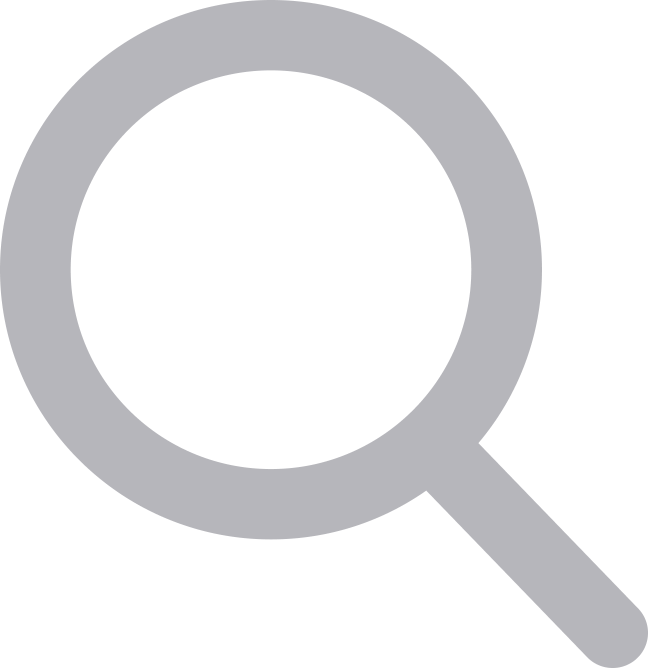
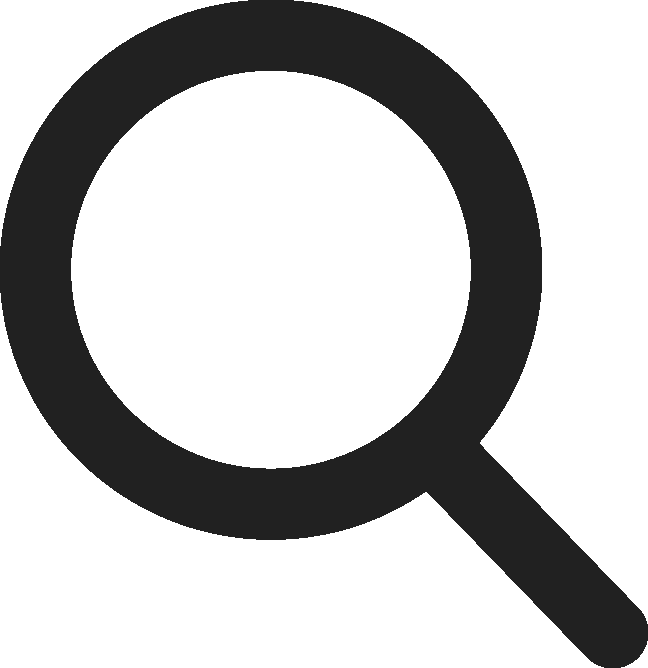
Se agrego iconos faltantes

Changed region(s): [[0.0, 0.0, 1.0, 1.0]]

diff --git a/tumi/templates/dashboard.html b/tumi/templates/dashboard.html
@@ -83,10 +83,13 @@
                     </div>
                     <div class="dashboard_view_inspeccion_opcion_row_1">
                         <div class="dashboard_view_inspeccion">Inspección 1,2,3,4-22</div>
-                        <div class="dashboard_view_fechas">02 Ene 2022 - 05 Dic 2022</div>
+                        <div class="dashboard_view_fechas">
+                            <img class="dashboard_view_fechas_img" src="{% static 'img/calendar.png' %}" alt="">
+                            <p class="dashboard_view_fechas_text">02 Ene 2022 - 05 Dic 2022</p>
+                        </div>
                         <img class="dashboard_view_icon" src="{% static 'img/lupa.png' %}" alt="">
-                        <img class="dashboard_view_icon" src="{% static 'img/lupa.png' %}" alt="">
-                        <img class="dashboard_view_icon" src="{% static 'img/lupa.png' %}" alt="">
+                        <img class="dashboard_view_icon" src="{% static 'img/mensaje.png' %}" alt="">
+                        <img class="dashboard_view_icon" src="{% static 'img/campana.png' %}" alt="">
                         <img class="dashboard_view_photo" src="{% static 'img/users/Mariel.png' %}" alt="">
                     </div>
                 </div>
@@ -119,19 +122,19 @@
                                     </div>
                                 </a>
                                 <button class="dashboard_historico_card" data-bs-toggle="modal" data-bs-target="#videoModal{{ inspeccion.id }}">
-                                    <img class="dashboard_historico_card_icon" src="{% static 'img/informen.png' %}" alt="icono">
+                                    <img class="dashboard_historico_card_icon" src="{% static 'img/video.png' %}" alt="icono">
                                     <div class="dashboard_historico_card_text"> 
                                         Video
                                     </div>
                                 </button>
                                 <a style="text-decoration: none;" href="{% url 'tumi:descargarLas' inspeccion.id %}" class="dashboard_historico_card">
-                                    <img class="dashboard_historico_card_icon" src="{% static 'img/informen.png' %}" alt="icono">
+                                    <img class="dashboard_historico_card_icon" src="{% static 'img/inspeccion.png' %}" alt="icono">
                                     <div class="dashboard_historico_card_text"> 
                                         Reconstrucción
                                     </div>
                                 </a>
                                 <a style="text-decoration: none;" href="{% url 'tumi:descargarDxf' inspeccion.id %}" class="dashboard_historico_card">
-                                    <img class="dashboard_historico_card_icon" src="{% static 'img/informen.png' %}" alt="icono">
+                                    <img class="dashboard_historico_card_icon" src="{% static 'img/puntos.png' %}" alt="icono">
                                     <div class="dashboard_historico_card_text"> 
                                         Mapa de puntos
                                     </div>

diff --git a/tumi/static/style/dashboard.css b/tumi/static/style/dashboard.css
@@ -139,7 +139,7 @@ time, mark, audio, video {
     align-items: center;
 }
 .dashboard_view_presentacion_contenedor_1{
-    width: 47%;
+    width: 44%;
 }
 .dashboard_view_presentacion_texto_1{
     font-family: 'Montserrat', sans-serif;
@@ -171,15 +171,26 @@ time, mark, audio, video {
     font-size: 14px;
 }
 .dashboard_view_fechas{
+    display: inline-flex;
     padding: 8px 14px;
-    margin: 0 36px 0 18px;
+    margin: 0 26px 0 10px;
     background-color: #FFFFFF;
     border-radius: 10px;
     border: 1px solid 
     rgba(0, 0, 0, 0.1);
+    white-space: nowrap;
+    
+}
+.dashboard_view_fechas_text{
+    margin: 0 0 0 8px;
+    white-space: nowrap;
     font-family: 'Montserrat', sans-serif;
     font-weight: 500;
     font-size: 14px;
+}
+.dashboard_view_fechas_img{
+    width: 16px;
+    height: auto;
 }
 .dashboard_view_icon{
     width: 26px;
@@ -319,7 +330,8 @@ time, mark, audio, video {
 }
 .dashboard_historico_card_icon{
     width: auto;
-    height: 56px;
+    max-width: 54px;
+    max-height: 46px;
     margin-bottom: 30px;
 }
 .dashboard_historico_card_text{
